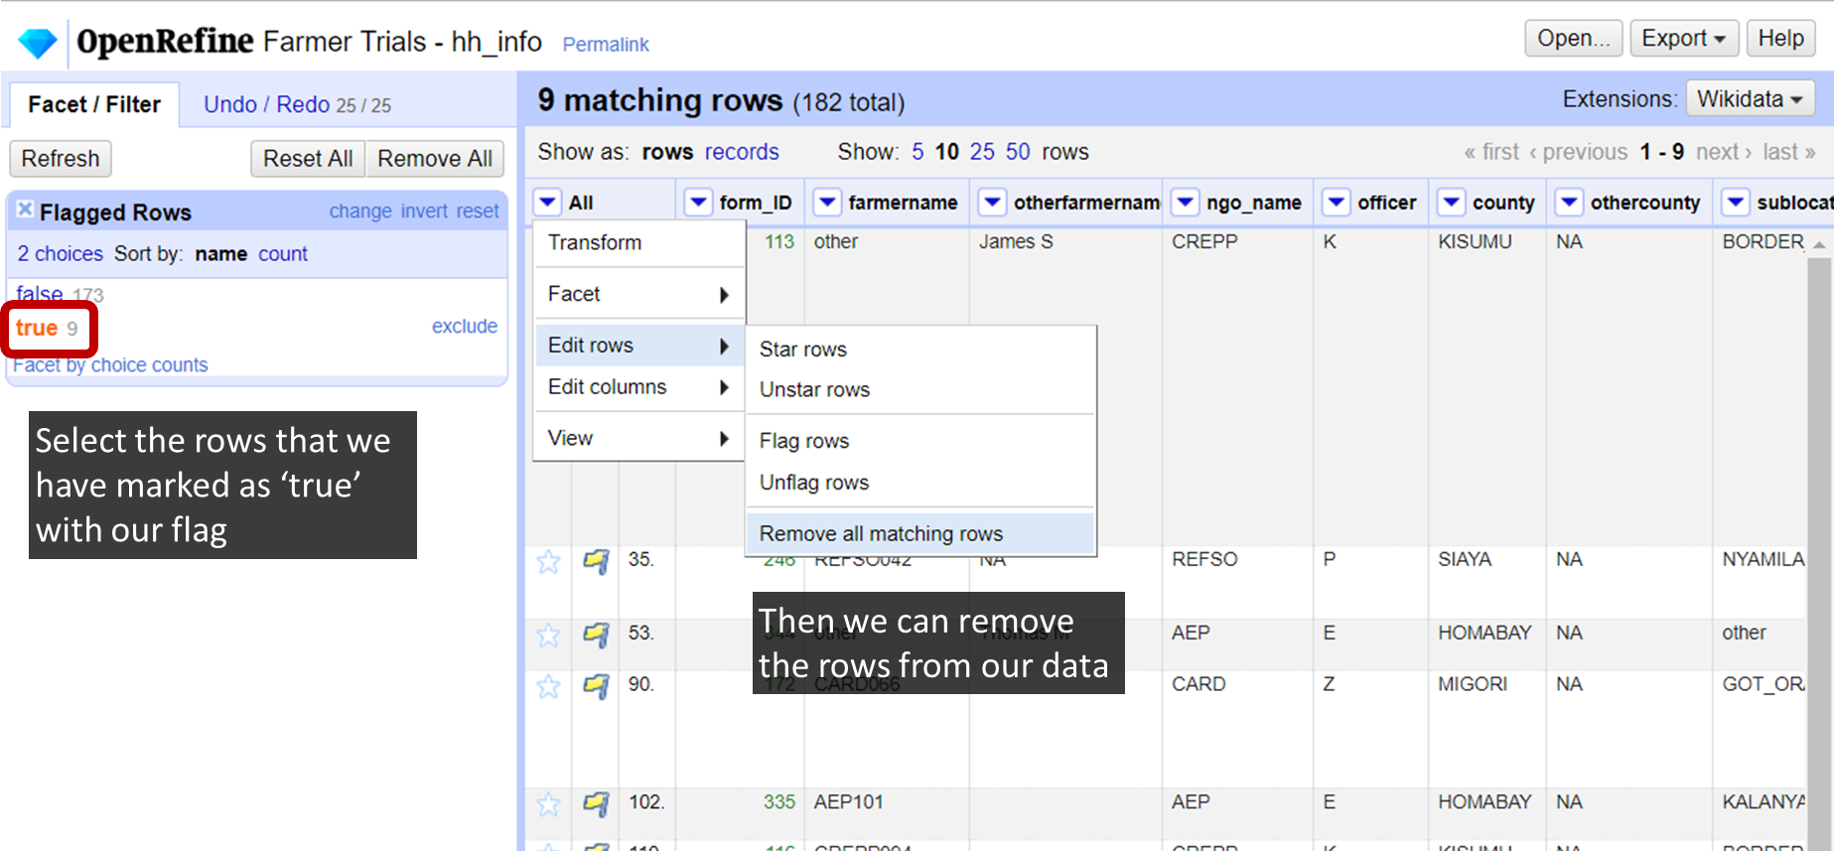
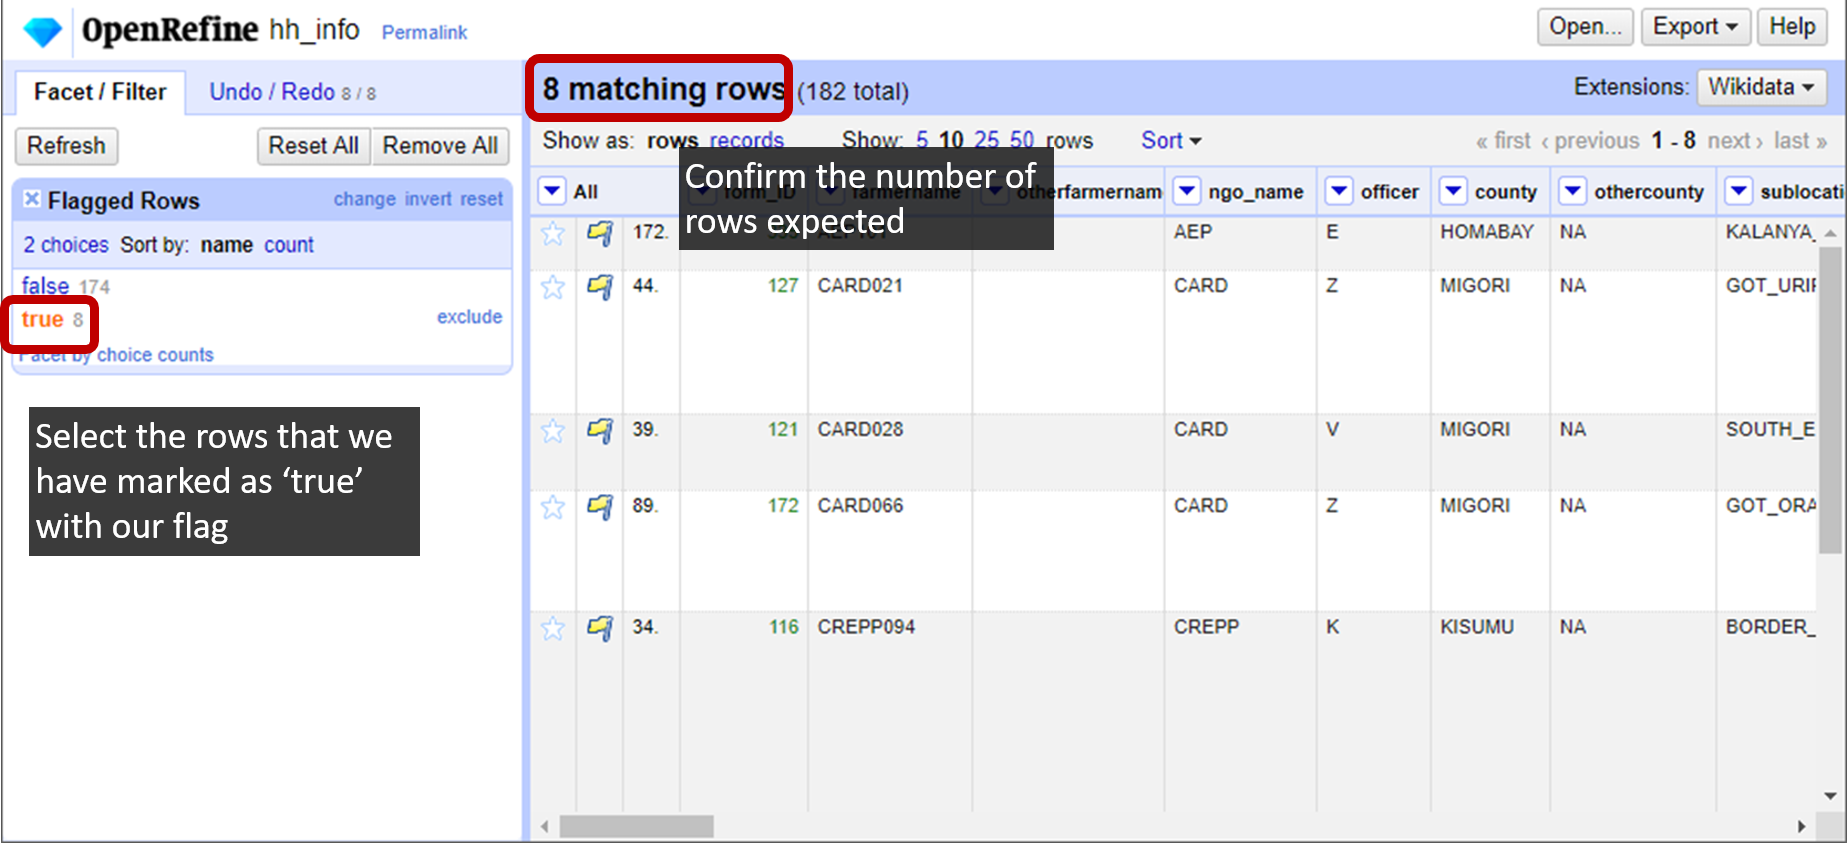
update to change remove farmer records to rename methods

diff --git a/guides/CaseStudies/FarmerPlotTrials/step4.md b/guides/CaseStudies/FarmerPlotTrials/step4.md
@@ -104,28 +104,37 @@ Click to _sort by count_
 
 We can immediately see that many of our farmers have 2 records.
 
-In this situation there is no standard way to resolve such issues, you may look through each record to see if they are duplicates, try to identify which record is correct by some other means, or possibly omitting all duplicate data from your analysis.
+> In a situation where we have inconsistent records there is no standard way to resolve. You might be able to go back to the enumerator to try and determine what went wrong, or decide on a method for handling such as omitting all duplicate data or just keeping original/newer values.
 
-For this example we know that a duplicate record indicates the enumerator making a correction, and as such we should only keep the newest records.
+For the sake of this example, let us assume that all of the newer records are correct. That gives us 2 options:
 
-We can **click on each farmer name** in our list, and use the star tool to **mark the rows we intend to delete** using the _flag_ icon.
+1. delete the older records, to remain only with newer
+2. rename the farmers in older records, to keep both
 
+As the data in hh_info table is also linked with the data in the plot_data table, if we wanted to delete farmers we would have to make sure we do so in both places.
+
+To keep things simpler, and to prevent loss of any data, we will just rename the duplicate records.
+
+### Isolate the duplicate records
+
+We can go through the list and for each set of duplicates _flag_ the older record
 ![image](/assets/images/FarmerTrials/open-refine-12.png)
 
-When you arrive at the farmername _'other'_ we will mark both of these rows to delete as the data is not valid.
-
-![image](/assets/images/FarmerTrials/open-refine-13.png)
-
-When you have finished marking all of the rows with duplicate farmers you should have a total of 9 records flagged.
-Finally we can delete the marked rows by creating a new facet on our flag column,
+Once all duplicates have been flagged we can select them all using _Facet by flag_
 
 ![image](/assets/images/FarmerTrials/open-refine-14.png)
 
-then select the records that match as 'true' for our flag, and finally use the _edit rows_ and _Remove all matching rows_ to delete the records.
+There should now be 8 records selected which we want to rename
 
 ![image](/assets/images/FarmerTrials/open-refine-15.png)
 
-This should reduce our total from 182 rows to 173.
+We could do this manually, or altogether by using a custom transformation:
+
+![image](/assets/images/FarmerTrials/open-refine-15a.png){:class="size--medium"}
+
+![image](/assets/images/FarmerTrials/open-refine-15b.png){:class="size--large"}
+
+### Tip: Undo / Redo
 
 If for any reason you make a mistake you can undo transformations from the _Undo / Redo_ menu
 
